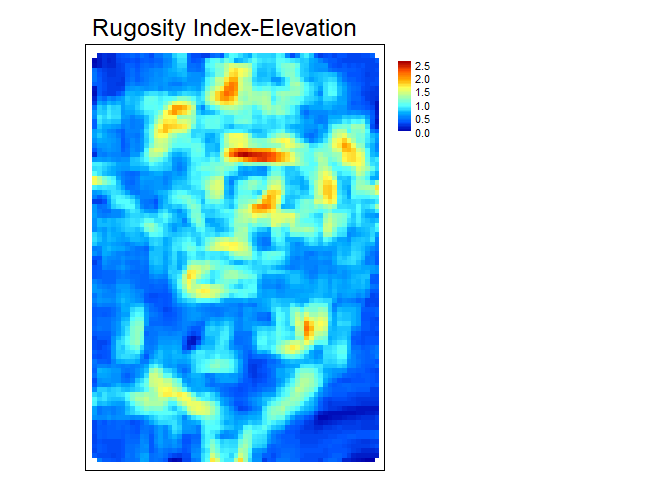
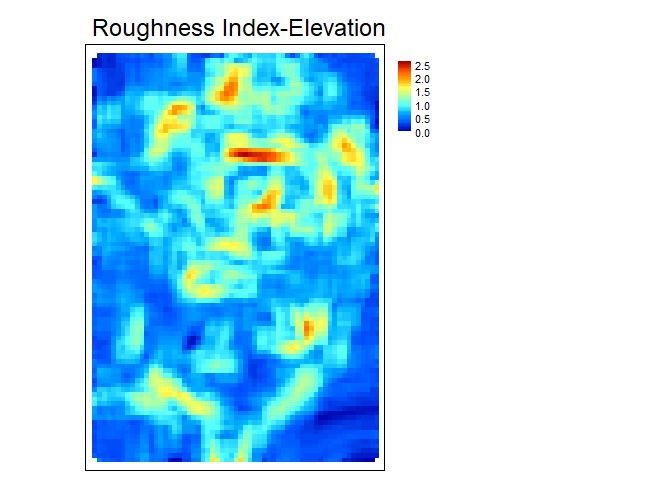
Minor fixes and edits - Give VRM default w of 3x3 - VRM x and y rast were switched (does not affect final calculation) - Change terminoloy in readme from rugosity to roughness - Update figs and make some minor fixes to readme

Changed region(s): [[0.1562, 0.0312, 0.5938, 0.0938]]

diff --git a/README.md b/README.md
@@ -1,7 +1,7 @@
 README
 ================
 Alexander Ilich
-October 13, 2022
+January 30, 2023
 
 # MultiscaleDTM
 
@@ -49,44 +49,43 @@ raster data.
 
 ### Slope, Aspect and Curvature
 
--   `SlpAsp` calculates multi-scale slope and aspect according to Misiuk
-    et al (2021) which is a modification of the traditional 3 x 3 slope
-    and aspect algorithms (Fleming and Hoffer, 1979; Horn et al., 1981;
-    Ritter, 1987). This algorithm only considers a subset of cells
-    within the focal window, specifically the four cells on the edge of
-    the focal window directly up, down, left, and right of the focal
-    cell for the “rook” case and an additional four corner cells for the
-    “queen” case. <img src="man/figures/SlpAsp.png" width="70%">
+- `SlpAsp` calculates multi-scale slope and aspect according to Misiuk
+  et al (2021) which is a modification of the traditional 3 x 3 slope
+  and aspect algorithms (Fleming and Hoffer, 1979; Horn et al., 1981;
+  Ritter, 1987). This algorithm only considers a subset of cells within
+  the focal window, specifically the four cells on the edge of the focal
+  window directly up, down, left, and right of the focal cell for the
+  “rook” case and an additional four corner cells for the “queen” case.
+  <img src="man/figures/SlpAsp.png" width="70%">
 
--   `Qfit` calculates slope, aspect, curvature, and morphometric
-    features by fitting a quadratic surface to the focal window using
-    ordinary least squares using the equation shown below where a-f are
-    regression parameters, Z is the elevation/depth, X is the east/west
-    coordinates in the focal window relative to the focal cell, and Y is
-    the north/south coordinates in the focal window relative to the
-    focal cell (Evans, 1980; Wilson et al., 2007; Wood, 1996). The
-    morphometric features algorithm has been modified to use more robust
-    measures of curvature based on the suggestions of Minár et
-    al. (2020).
+- `Qfit` calculates slope, aspect, curvature, and morphometric features
+  by fitting a quadratic surface to the focal window using ordinary
+  least squares using the equation shown below where a-f are regression
+  parameters, Z is the elevation/depth, X is the east/west coordinates
+  in the focal window relative to the focal cell, and Y is the
+  north/south coordinates in the focal window relative to the focal cell
+  (Evans, 1980; Wilson et al., 2007; Wood, 1996). The morphometric
+  features algorithm has been modified to use more robust measures of
+  curvature based on the suggestions of Minár et al. (2020).
 
-![Z = aX^2 + bY^2 +cXY+ dX +eY +f](https://latex.codecogs.com/png.image?%5Cdpi%7B110%7D&space;%5Cbg_white&space;Z%20%3D%20aX%5E2%20%2B%20bY%5E2%20%2BcXY%2B%20dX%20%2BeY%20%2Bf "Z = aX^2 + bY^2 +cXY+ dX +eY +f")
+![Z = aX^2 + bY^2 +cXY+ dX +eY +f](https://latex.codecogs.com/png.latex?Z%20%3D%20aX%5E2%20%2B%20bY%5E2%20%2BcXY%2B%20dX%20%2BeY%20%2Bf "Z = aX^2 + bY^2 +cXY+ dX +eY +f")
 
 <img src="man/figures/Qfit_annotated.png" width="70%">
 
 Figure adapted from Walbridge et al., (2018)
 
-### Rugosity
+### Roughness
 
--   `VRM` - Vector ruggedness measure (Sappington et al. 2007)
-    quantifies terrain ruggedness by measuring the dispersion of vectors
-    normal to the terrain surface. This is accomplished by calculating
-    the local (3 x 3 cell) slope and aspect, and constructing unit
-    vectors normal to each cell in the DTM. These unit vectors are then
-    decomposed into their corresponding x, y, and z components (i.e. the
-    x, y, and z coordinates of the head of the vector relative to its
-    origin) and used in the following equation (note: n is the number of
-    cells in the window). VRM ranges from zero to one, representing
-    completely smooth to rugose surfaces, respectively. .
+- `VRM` - Vector ruggedness measure (Sappington et al. 2007) quantifies
+  roughness by measuring the dispersion of vectors normal to the terrain
+  surface. This is accomplished by calculating the local (3 x 3 cell)
+  slope and aspect, and constructing unit vectors normal to each cell in
+  the DTM. These unit vectors are then decomposed into their
+  corresponding x, y, and z components (i.e. the x, y, and z coordinates
+  of the head of the vector relative to its origin) and used in the
+  following equation (note: N is the number of cells in the window). VRM
+  ranges from zero to one, representing completely smooth to rough
+  surfaces, respectively. .
 
 <img src="man/figures/VRM_annotated.png" width="70%">
 
@@ -96,19 +95,19 @@ Figure adapted from Sappington et al. (2007)
 
 Figure adapted from Habib (2021)
 
-![\text{VRM} = 1- \frac{\sqrt{\bigg(\sum x\bigg)^2+\bigg(\sum y\bigg)^2+\bigg(\sum z\bigg)^2}}{n}](https://latex.codecogs.com/png.image?%5Cdpi%7B110%7D&space;%5Cbg_white&space;%5Ctext%7BVRM%7D%20%3D%201-%20%5Cfrac%7B%5Csqrt%7B%5Cbigg%28%5Csum%20x%5Cbigg%29%5E2%2B%5Cbigg%28%5Csum%20y%5Cbigg%29%5E2%2B%5Cbigg%28%5Csum%20z%5Cbigg%29%5E2%7D%7D%7Bn%7D "\text{VRM} = 1- \frac{\sqrt{\bigg(\sum x\bigg)^2+\bigg(\sum y\bigg)^2+\bigg(\sum z\bigg)^2}}{n}")
+![\text{VRM} = 1- \frac{\sqrt{\bigg(\sum x\bigg)^2+\bigg(\sum y\bigg)^2+\bigg(\sum z\bigg)^2}}{N}](https://latex.codecogs.com/png.latex?%5Ctext%7BVRM%7D%20%3D%201-%20%5Cfrac%7B%5Csqrt%7B%5Cbigg%28%5Csum%20x%5Cbigg%29%5E2%2B%5Cbigg%28%5Csum%20y%5Cbigg%29%5E2%2B%5Cbigg%28%5Csum%20z%5Cbigg%29%5E2%7D%7D%7BN%7D "\text{VRM} = 1- \frac{\sqrt{\bigg(\sum x\bigg)^2+\bigg(\sum y\bigg)^2+\bigg(\sum z\bigg)^2}}{N}")
 
-![x = sin(\text{slope})\*cos(\text{aspect})](https://latex.codecogs.com/png.image?%5Cdpi%7B110%7D&space;%5Cbg_white&space;x%20%3D%20sin%28%5Ctext%7Bslope%7D%29%2Acos%28%5Ctext%7Baspect%7D%29 "x = sin(\text{slope})*cos(\text{aspect})")
+![x = sin(\text{slope})\*sin(\text{aspect})](https://latex.codecogs.com/png.latex?x%20%3D%20sin%28%5Ctext%7Bslope%7D%29%2Asin%28%5Ctext%7Baspect%7D%29 "x = sin(\text{slope})*sin(\text{aspect})")
 
-![y=sin(\text{slope})\*cos(\text{aspect})](https://latex.codecogs.com/png.image?%5Cdpi%7B110%7D&space;%5Cbg_white&space;y%3Dsin%28%5Ctext%7Bslope%7D%29%2Acos%28%5Ctext%7Baspect%7D%29 "y=sin(\text{slope})*cos(\text{aspect})")
+![y=sin(\text{slope})\*cos(\text{aspect})](https://latex.codecogs.com/png.latex?y%3Dsin%28%5Ctext%7Bslope%7D%29%2Acos%28%5Ctext%7Baspect%7D%29 "y=sin(\text{slope})*cos(\text{aspect})")
 
-![z=cos(\text{slope})](https://latex.codecogs.com/png.image?%5Cdpi%7B110%7D&space;%5Cbg_white&space;z%3Dcos%28%5Ctext%7Bslope%7D%29 "z=cos(\text{slope})")
+![z=cos(\text{slope})](https://latex.codecogs.com/png.latex?z%3Dcos%28%5Ctext%7Bslope%7D%29 "z=cos(\text{slope})")
 
  - `SAPA` - Calculates the Surface Area to Planar Area (Jenness, 2004).
-More rugose surfaces will have a greater surface area to planar area
-ratio, and perfectly smooth surfaces will have a value of 1. This is a
-3D analog to the classical “chain-and-tape” method, which calculates
-rugosity as the ratio of the contoured distance (chain length) and
+Rougher surfaces will have a greater surface area to planar area ratio,
+and perfectly smooth surfaces will have a value of 1. This is a 3D
+analog to the classical “chain-and-tape” method, which calculates
+roughness as the ratio of the contoured distance (chain length) and
 linear distance (tape measure distance; Risk, 1972). Additionally,
 planar area can be corrected for slope by dividing the product of the x
 and y resolution by the cosine of slope (Du Preez 2015). Moreover, a
@@ -127,22 +126,22 @@ BioRender.com.
 
 Figure adapted from Jenness (2004)
 
--   `AdjSD`- This new proposed rugosity metric modifies the standard
-    deviation of elevation/bathymetry to account for slope. It does this
-    by first fitting a plane to the data in the focal window using
-    ordinary least squares, and then extracting the residuals, and then
-    calculating the standard deviation of the residuals within the focal
-    window.
+- `AdjSD`- This new proposed roughness metric modifies the standard
+  deviation of elevation/bathymetry to account for slope. It does this
+  by first fitting a plane to the data in the focal window using
+  ordinary least squares, and then extracting the residuals, and then
+  calculating the standard deviation of the residuals within the focal
+  window.
 
 <img src="man/figures/adj_sd.png" width="80%">
 
--   `RIE` - Calculates the Roughness Index-Elevation which quantifies
-    the standard deviation of residual topography (Cavalli et al.,
-    2008). This measure is conceptually similar to `AdjSD` but rather
-    than fitting a plane and extracting residuals for the entire focal
-    window, residual topography is calculated as the focal pixel minus
-    the focal mean. Then the local standard deviation is calculated from
-    this residual topography using a focal filter.
+- `RIE` - Calculates the Roughness Index-Elevation which quantifies the
+  standard deviation of residual topography (Cavalli et al., 2008). This
+  measure is conceptually similar to `AdjSD` but rather than fitting a
+  plane and extracting residuals for the entire focal window, residual
+  topography is calculated as the focal pixel minus the focal mean. Then
+  the local standard deviation is calculated from this residual
+  topography using a focal filter.
 
 <img src="man/figures/RIE.png" width="80%">
 
@@ -150,22 +149,22 @@ Figure adapted from Cavalli et al. (2008)
 
 ### Relative Position
 
--   `TPI` - Topographic Position Index (Weiss, 2001) is the difference
-    between the value of a focal cell and the mean of the surrounding
-    cells.
+- `TPI` - Topographic Position Index (Weiss, 2001) is the difference
+  between the value of a focal cell and the mean of the surrounding
+  cells.
 
--   `RDMV` - Relative Difference from Mean Value (Lecours et al., 2017)
-    is the difference between the value of a focal cell and the mean of
-    the cells in the focal window divided by the range or standard
-    deviation of the values in the focal window.
+- `RDMV` - Relative Difference from Mean Value (Lecours et al., 2017) is
+  the difference between the value of a focal cell and the mean of the
+  cells in the focal window divided by the range or standard deviation
+  of the values in the focal window.
 
--   `BPI` - Bathymetric Position Index (Lundblad et al., 2006) is the
-    difference between the value of a focal cell and the mean of the
-    surrounding cells contained within an annulus shaped window. It is a
-    modification of TPI that uses an annulus shaped focal window and
-    therefore requires an inner and outer radius. For example, an
-    annulus window with an inner radius of 4 cells and an outer radius
-    of 6 cells would be
+- `BPI` - Bathymetric Position Index (Lundblad et al., 2006) is the
+  difference between the value of a focal cell and the mean of the
+  surrounding cells contained within an annulus shaped window. It is a
+  modification of TPI that uses an annulus shaped focal window and
+  therefore requires an inner and outer radius. For example, an annulus
+  window with an inner radius of 4 cells and an outer radius of 6 cells
+  would be
 
 <img src="man/figures/BPI_Fig.png" width="70%">
 
@@ -220,7 +219,7 @@ To explore these measures in an interactive environment use
 `explore_terrain()` or go to this
 [website](https://ailich.shinyapps.io/Terrain_Attributes_Explorer_App/)
 
-### Rugosity
+### Roughness
 
 ``` r
 vrm<- VRM(r, w=c(5,5), na.rm = TRUE)
